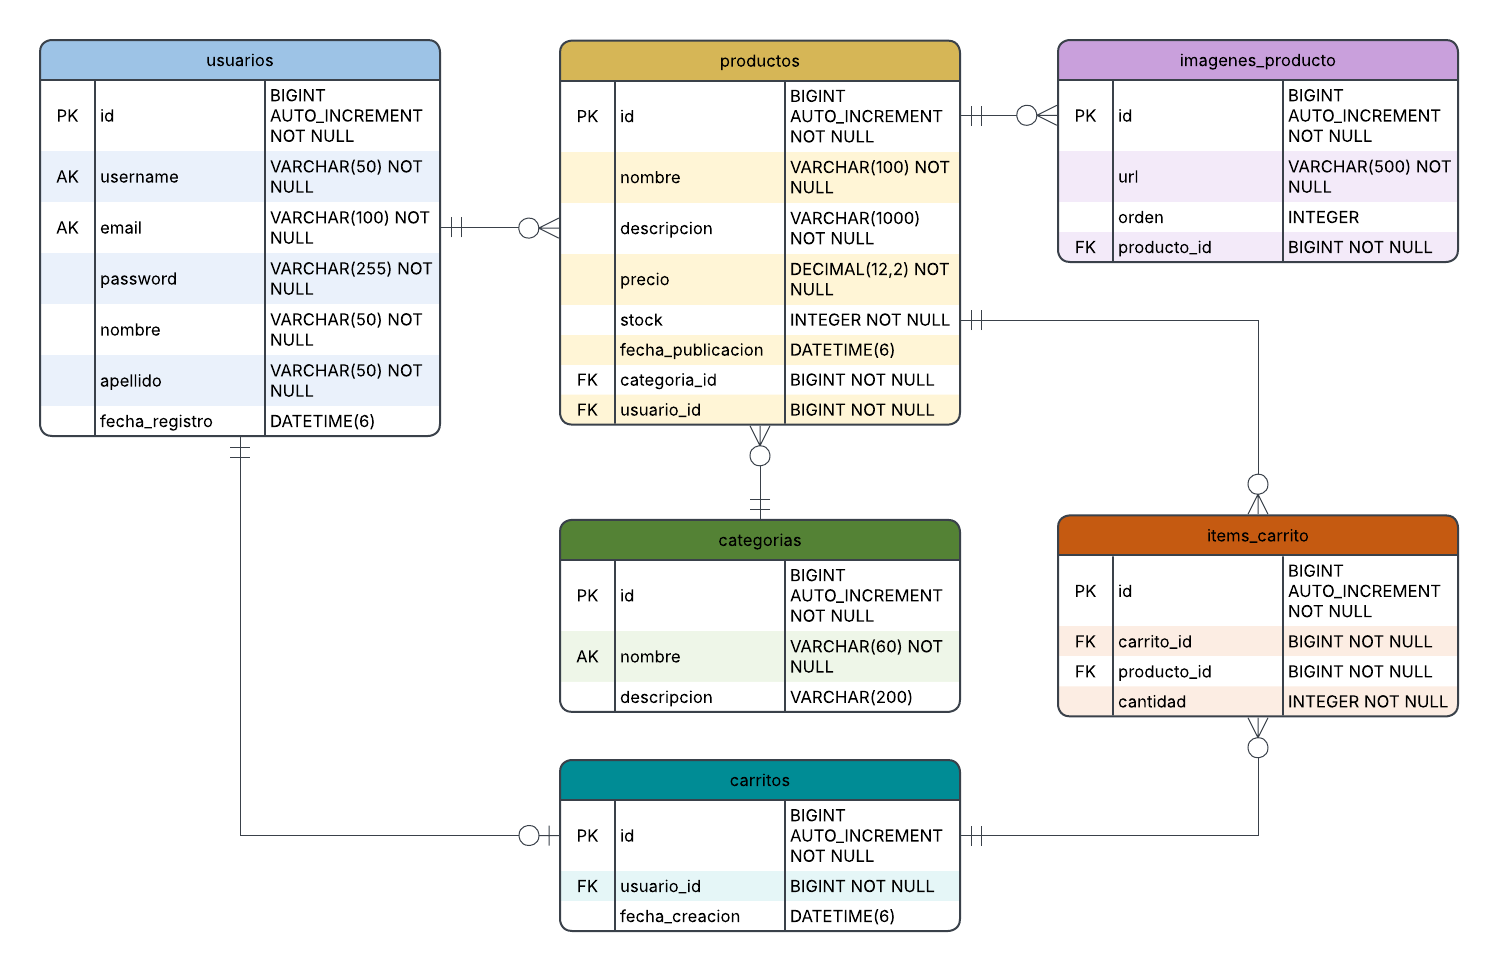
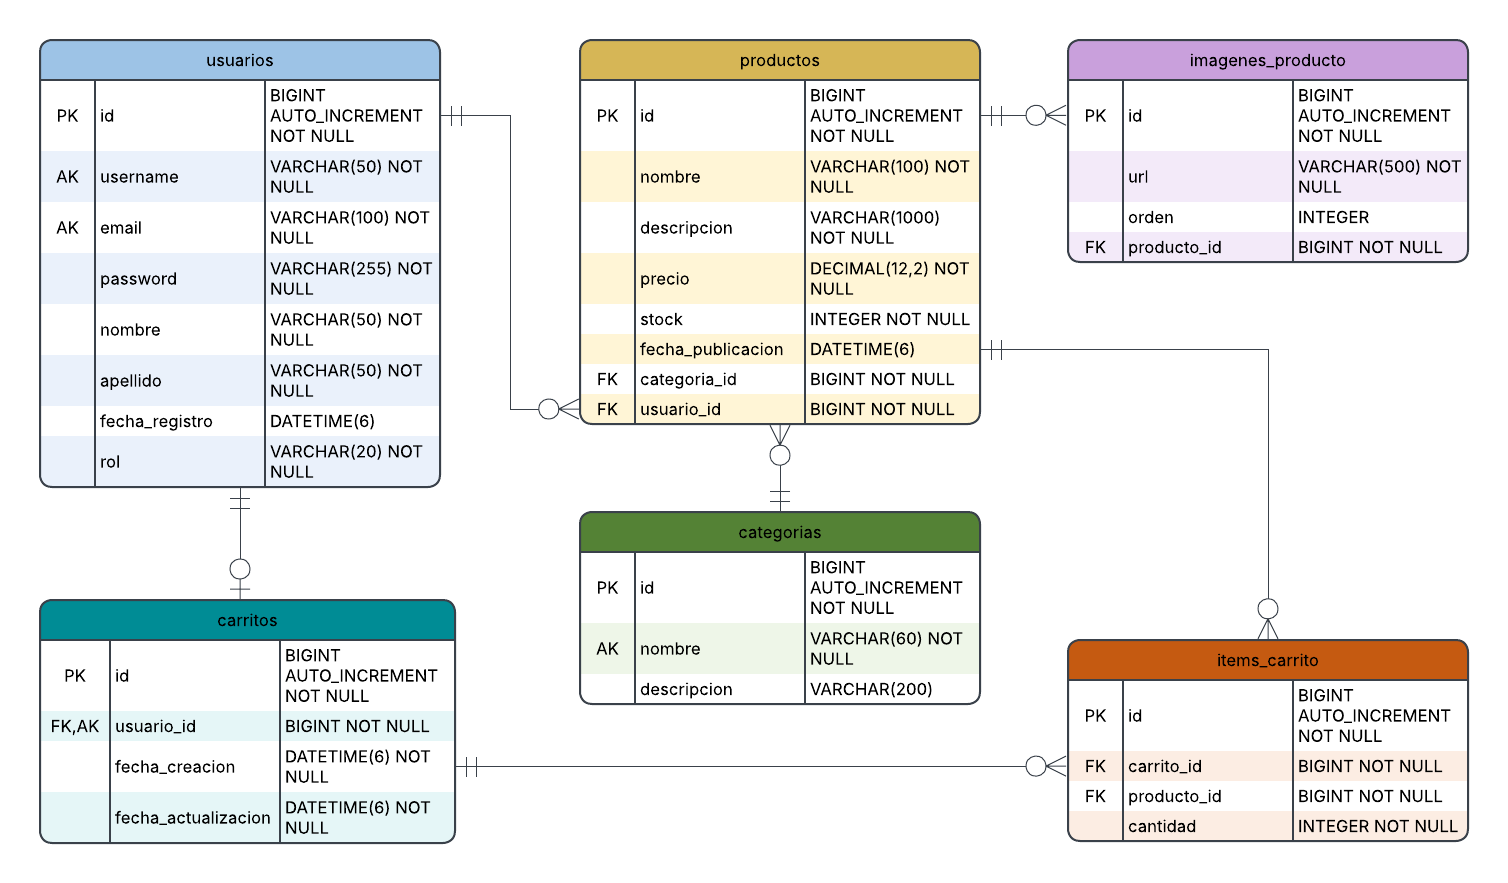
Ajustes en el DER y README.md

Changed region(s): [[0.0, 0.0306, 0.9826, 0.9785], [0.0307, 0.0306, 0.3071, 0.581]]

diff --git a/README.md b/README.md
@@ -118,18 +118,6 @@ al grupo antes de tocarlas, porque las comparten varios modulos.
 
 ![Diagrama entidad-relacion del e-commerce](docs/der.png)
 
-Hecho en Lucidchart, importando el DDL que genera Hibernate a partir de las
-clases `@Entity`. Sale del esquema real y no de un dibujo hecho a mano, asi que
-las tablas, los tipos y las claves foraneas son exactamente los que crea la
-aplicacion.
-
-Para regenerarlo cuando cambia el modelo: exportar el DDL, reimportarlo en
-Lucidchart y exportar el PNG de nuevo.
-
-> **Pendiente:** la imagen es anterior a la separacion de roles, asi que le falta
-> la columna `rol` en `usuarios` (`VARCHAR(20) NOT NULL`). El resto del esquema
-> no cambio. Hay que regenerarla.
-
 Las cuatro relaciones JPA que pide la catedra, y donde esta cada una:
 
 | Relacion | Donde |
@@ -138,21 +126,6 @@ Las cuatro relaciones JPA que pide la catedra, y donde esta cada una:
 | `@OneToMany` | Categoria → productos, Producto → imagenes, Carrito → items |
 | `@OneToOne` | Carrito → Usuario |
 | `@ManyToMany` | Ninguna directa. La de Carrito ↔ Producto esta **resuelta** con `ItemCarrito`, porque la asociacion necesita guardar la cantidad. |
-
-Decisiones que conviene poder defender en la entrega:
-
-- **`precio` es `BigDecimal`, no `double`**: `double` arrastra errores de
-  redondeo binario y con plata eso no se perdona.
-- **`ItemCarrito` es una entidad y no un `@ManyToMany`**: la asociacion entre
-  carrito y producto tiene un atributo propio, la cantidad. Ese es el patron
-  estandar de JPA para ese caso.
-- **`ImagenProducto` es una entidad y no una lista de Strings**: la catedra pide
-  demostrar relaciones JPA explicitas entre entidades reales.
-- **`Usuario` tiene un rol, `CLIENTE` o `VENDEDOR`**: el profesor aclaro que un
-  e-commerce tiene un vendedor fijo (el dueño del sitio, como la pagina de una
-  marca), a diferencia de un marketplace donde cualquiera publica. Por eso solo
-  el rol `VENDEDOR` puede dar de alta, modificar o eliminar productos. Se
-  corresponde con los roles USER y ADMIN del material de la Clase 05.
 
 ## Reparto de modulos
 
